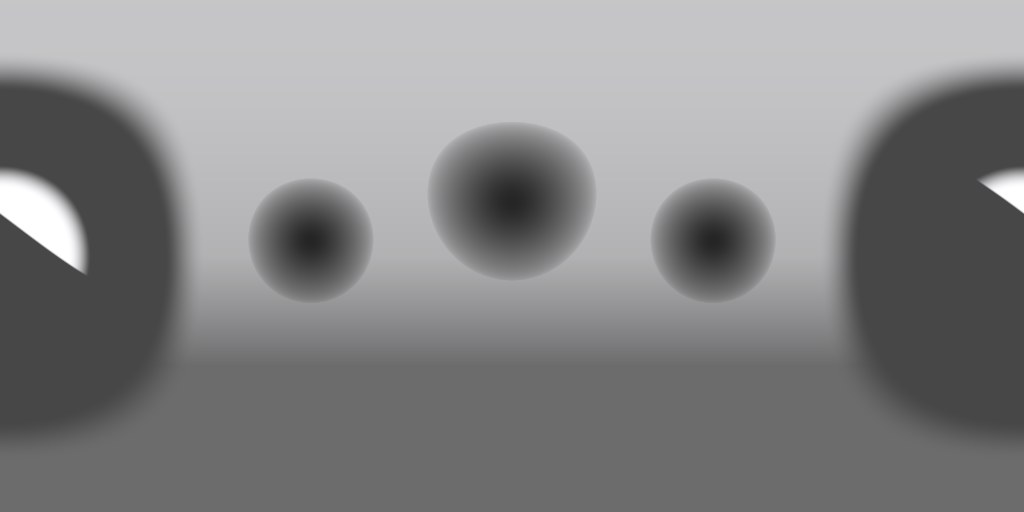
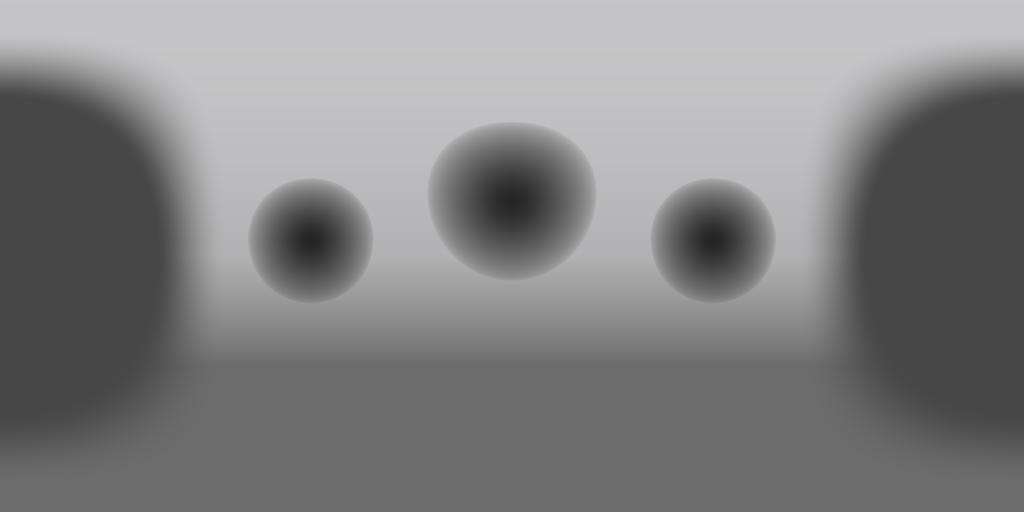
The iPod touch 4's front glass no longer carries a diagonal light streak. The streak was the hero shot's sheen, matched on purpose: N81Studio had a hard-edged white card above and left of the camera that the full-strength glass mirrored, which suits a product photo but distracts on a device in use. 

diff --git a/LightTouchMac/UI/DeviceModelView.swift b/LightTouchMac/UI/DeviceModelView.swift
@@ -159,9 +159,9 @@ final class DeviceModelView: NSView {
                         finish.baseColor = .init(tint: NSColor(srgbRed: 0.07, green: 0.08, blue: 0.1, alpha: 1))
                         finish.specular = .init(floatLiteral: 0.5)
                     }
-                    // N81's glass mirrors its studio (N81Studio): the black surround behind the camera as its black
-                    // (~25 of 255, Apple's hero ~28) and the card above it as the diagonal sheen across its upper
-                    // left (~134, the hero ~120-138). Specular 0 left it a flat, lifeless black.
+                    // N81's glass mirrors its studio (N81Studio): the black surround behind the camera as an even deep
+                    // black (~22 of 255, Apple's hero ~28) at rest and typical tilts, and the tent as a soft sheen only
+                    // at steep ones. Specular 0 left it a flat, lifeless black.
                     if profile == .n81 && (name == "glass" || name.contains("inactive_LCD_perimeter")) {
                         finish.specular = .init(floatLiteral: 1)
                     }
